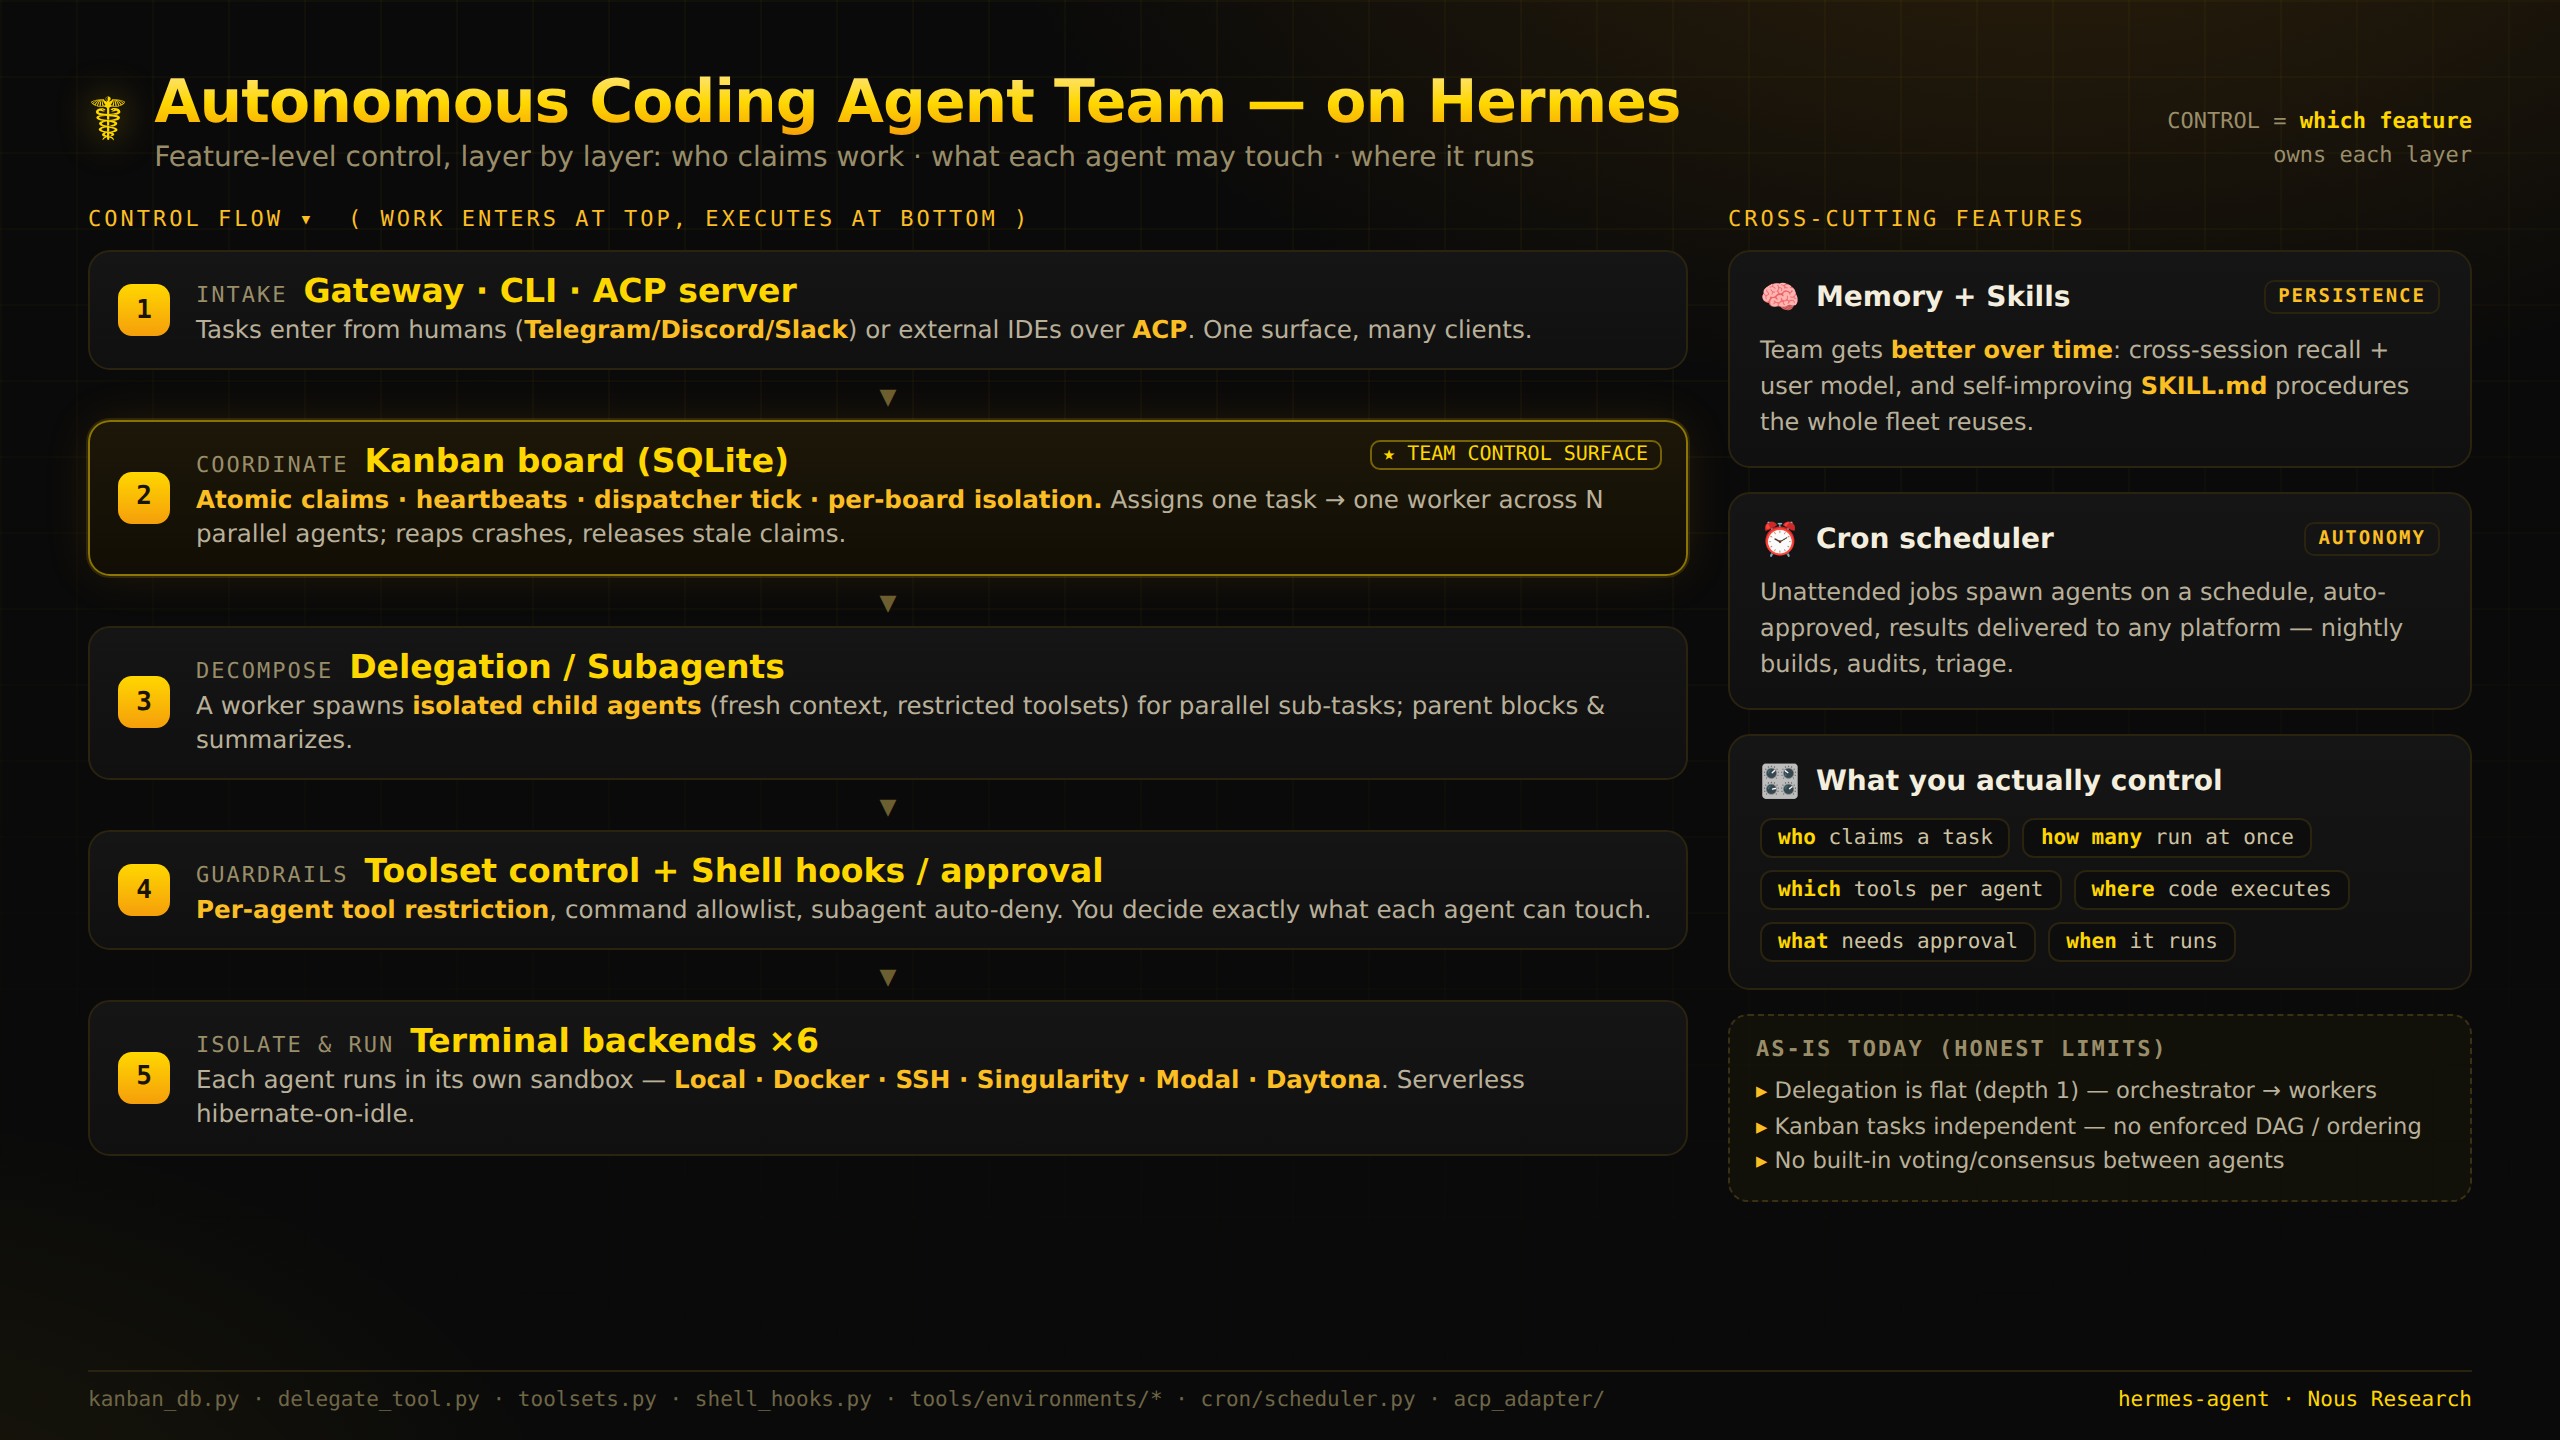
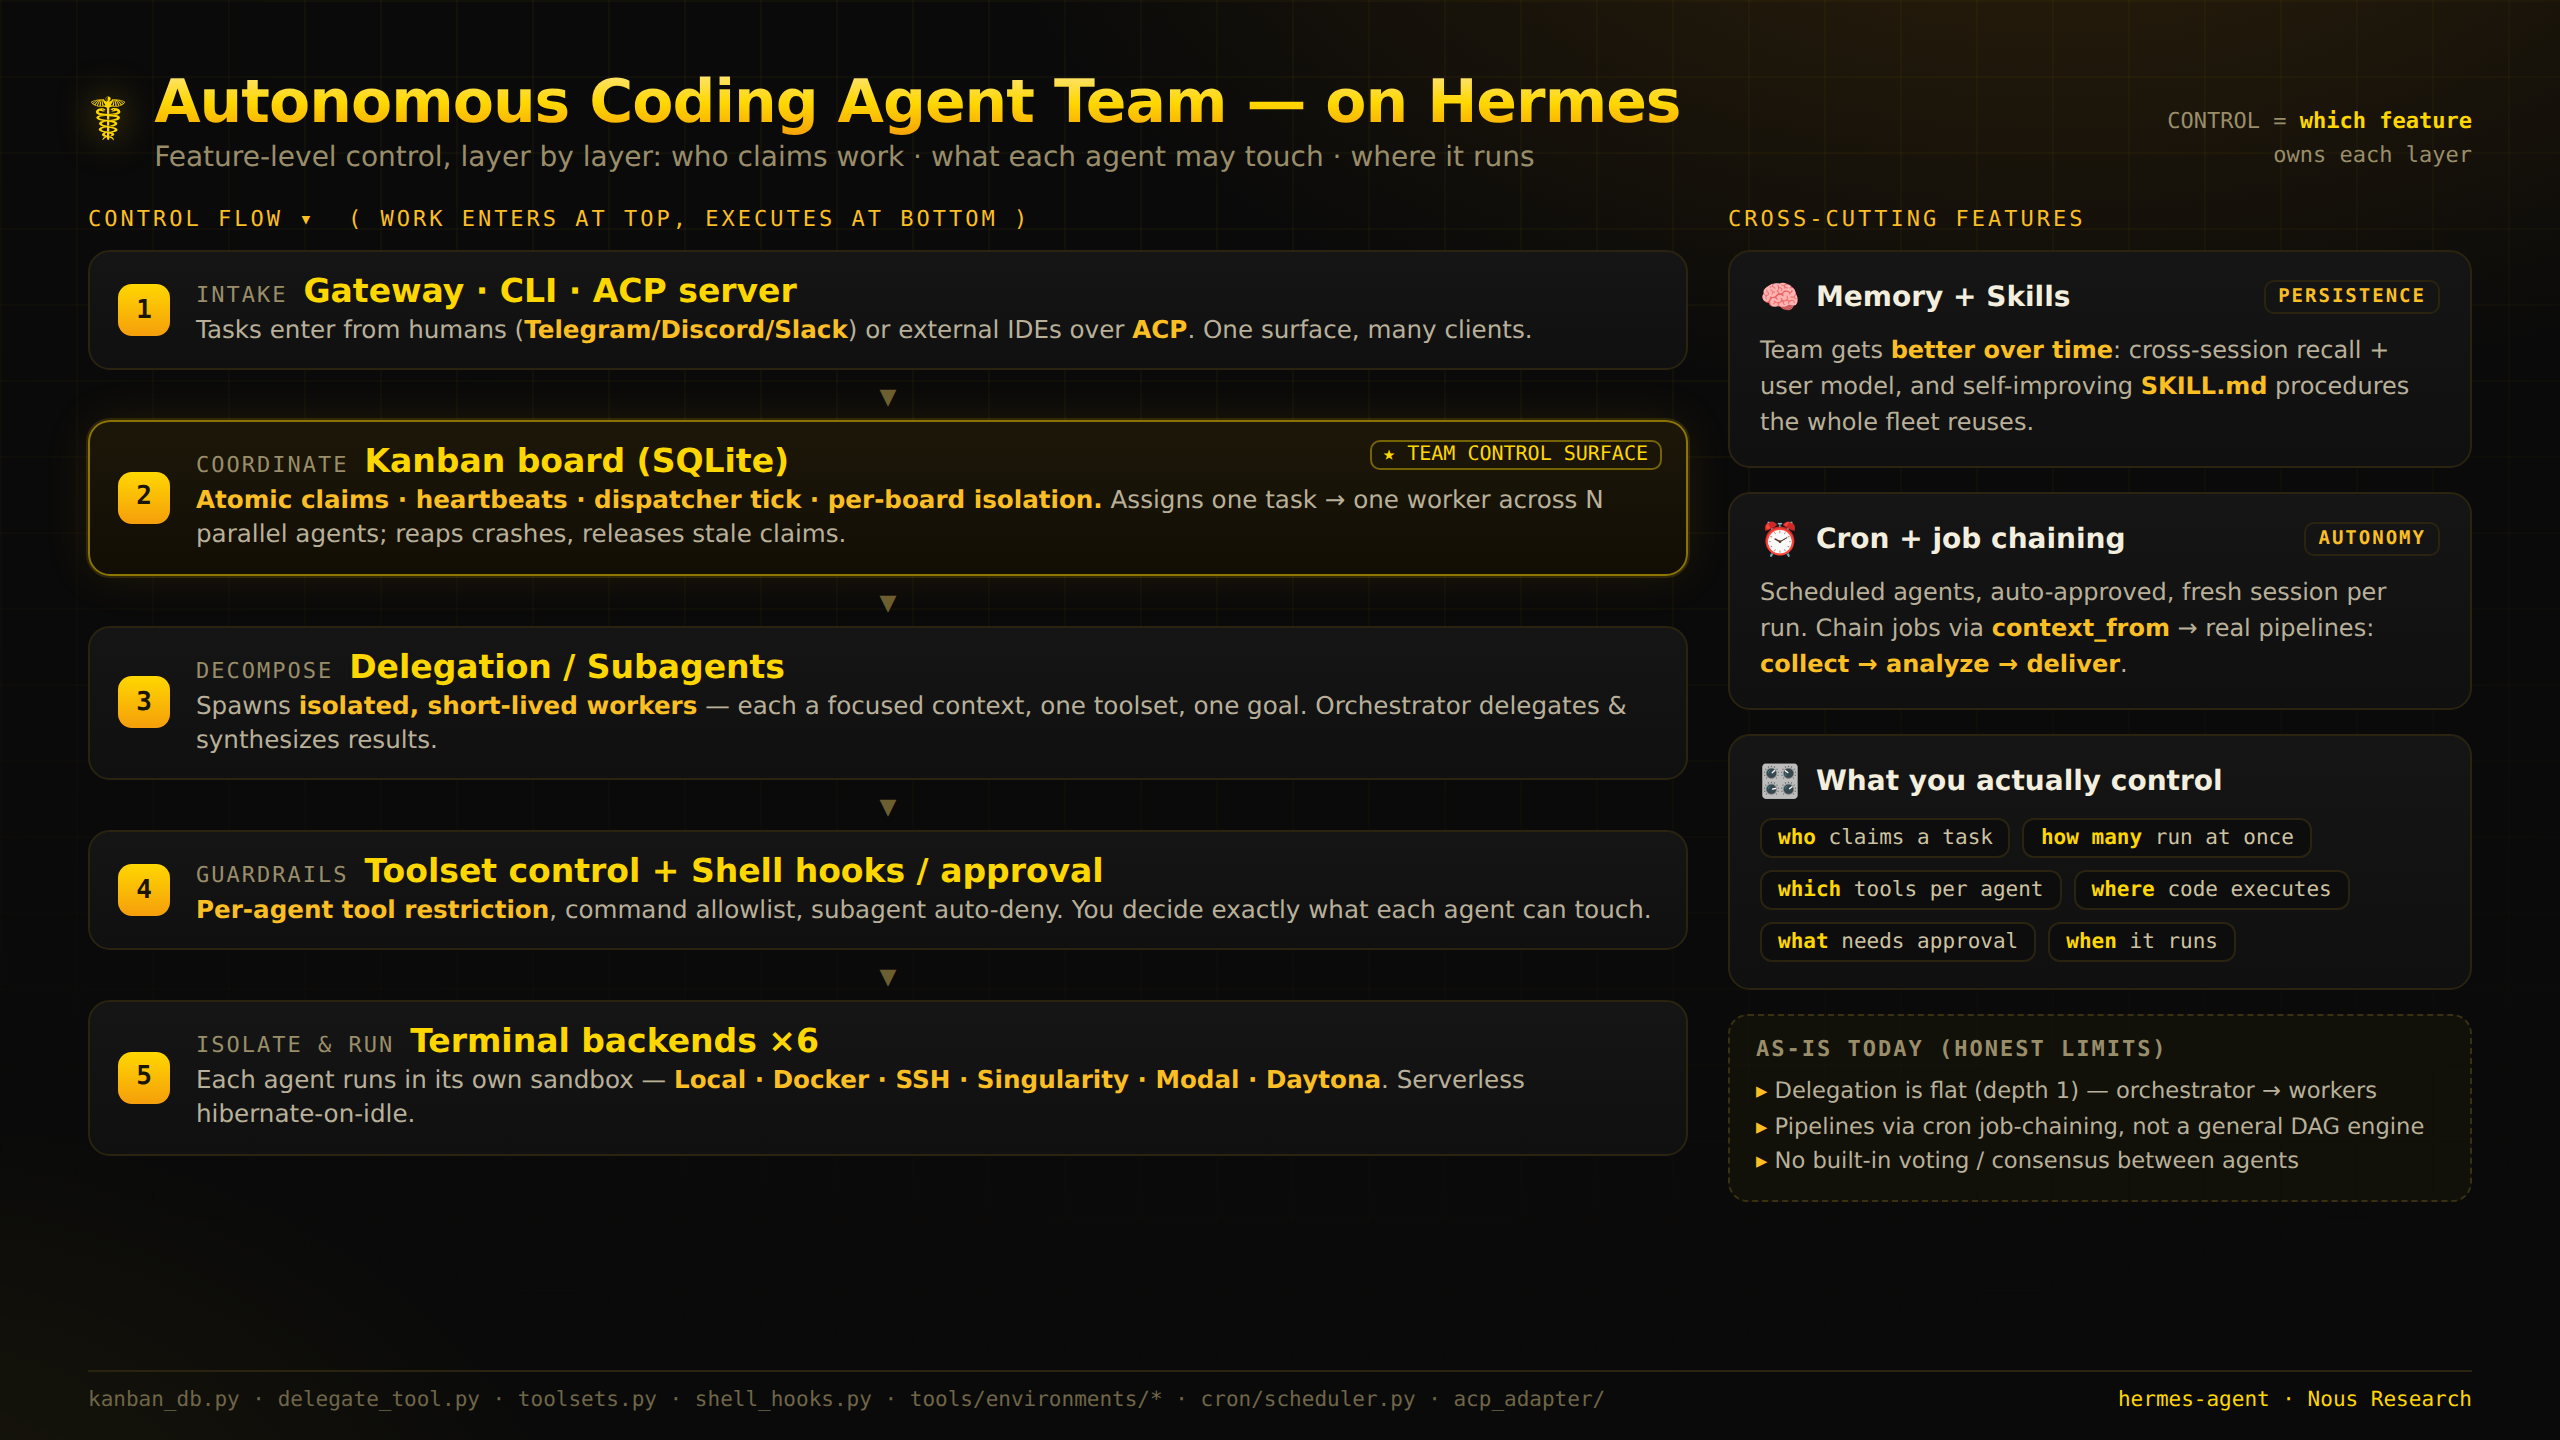
docs(slides): refine coding-team slide with verified blog insights
Incorporate framing from the Data Science Dojo Hermes tutorial, keeping
only claims verified against the codebase:
- subagents reframed as "focused context, one toolset, one goal"
- add cron job-chaining (context_from) → collect → analyze → deliver
  pipelines (cron/jobs.py)
- correct the limits note: pipelines come from cron chaining, not a
  general DAG engine
GEPA self-evolution intentionally omitted (not confirmable in tree).

Claude-Session: https://claude.ai/code/session_01Lf69Zci3hz8DoGGW8jYQo5

Changed region(s): [[0.0625, 0.4688, 0.625, 0.5312], [0.6875, 0.3438, 0.9375, 0.4688], [0.6875, 0.7812, 0.9375, 0.8125]]

diff --git a/slides/hermes-coding-team-control.html b/slides/hermes-coding-team-control.html
@@ -118,7 +118,7 @@
             <div class="num">3</div>
             <div class="ltxt">
               <div class="lrow"><span class="lcon">Decompose</span><span class="lfeat">Delegation / Subagents</span></div>
-              <div class="ldesc">A worker spawns <b>isolated child agents</b> (fresh context, restricted toolsets) for parallel sub-tasks; parent blocks &amp; summarizes.</div>
+              <div class="ldesc">Spawns <b>isolated, short-lived workers</b> — each a focused context, one toolset, one goal. Orchestrator delegates &amp; synthesizes results.</div>
             </div>
           </div>
           <div class="arrow">▼</div>
@@ -153,8 +153,8 @@
         </div>
 
         <div class="rail">
-          <h4><span class="ic">⏰</span> Cron scheduler <span class="tag">AUTONOMY</span></h4>
-          <p>Unattended jobs spawn agents on a schedule, auto-approved, results delivered to any platform — nightly builds, audits, triage.</p>
+          <h4><span class="ic">⏰</span> Cron + job chaining <span class="tag">AUTONOMY</span></h4>
+          <p>Scheduled agents, auto-approved, fresh session per run. Chain jobs via <b>context_from</b> → real pipelines: <b>collect → analyze → deliver</b>.</p>
         </div>
 
         <div class="rail">
@@ -173,8 +173,8 @@
           <h4>As-is today (honest limits)</h4>
           <ul>
             <li>Delegation is flat (depth&nbsp;1) — orchestrator → workers</li>
-            <li>Kanban tasks independent — no enforced DAG / ordering</li>
-            <li>No built-in voting/consensus between agents</li>
+            <li>Pipelines via cron job-chaining, not a general DAG engine</li>
+            <li>No built-in voting / consensus between agents</li>
           </ul>
         </div>
       </div>
